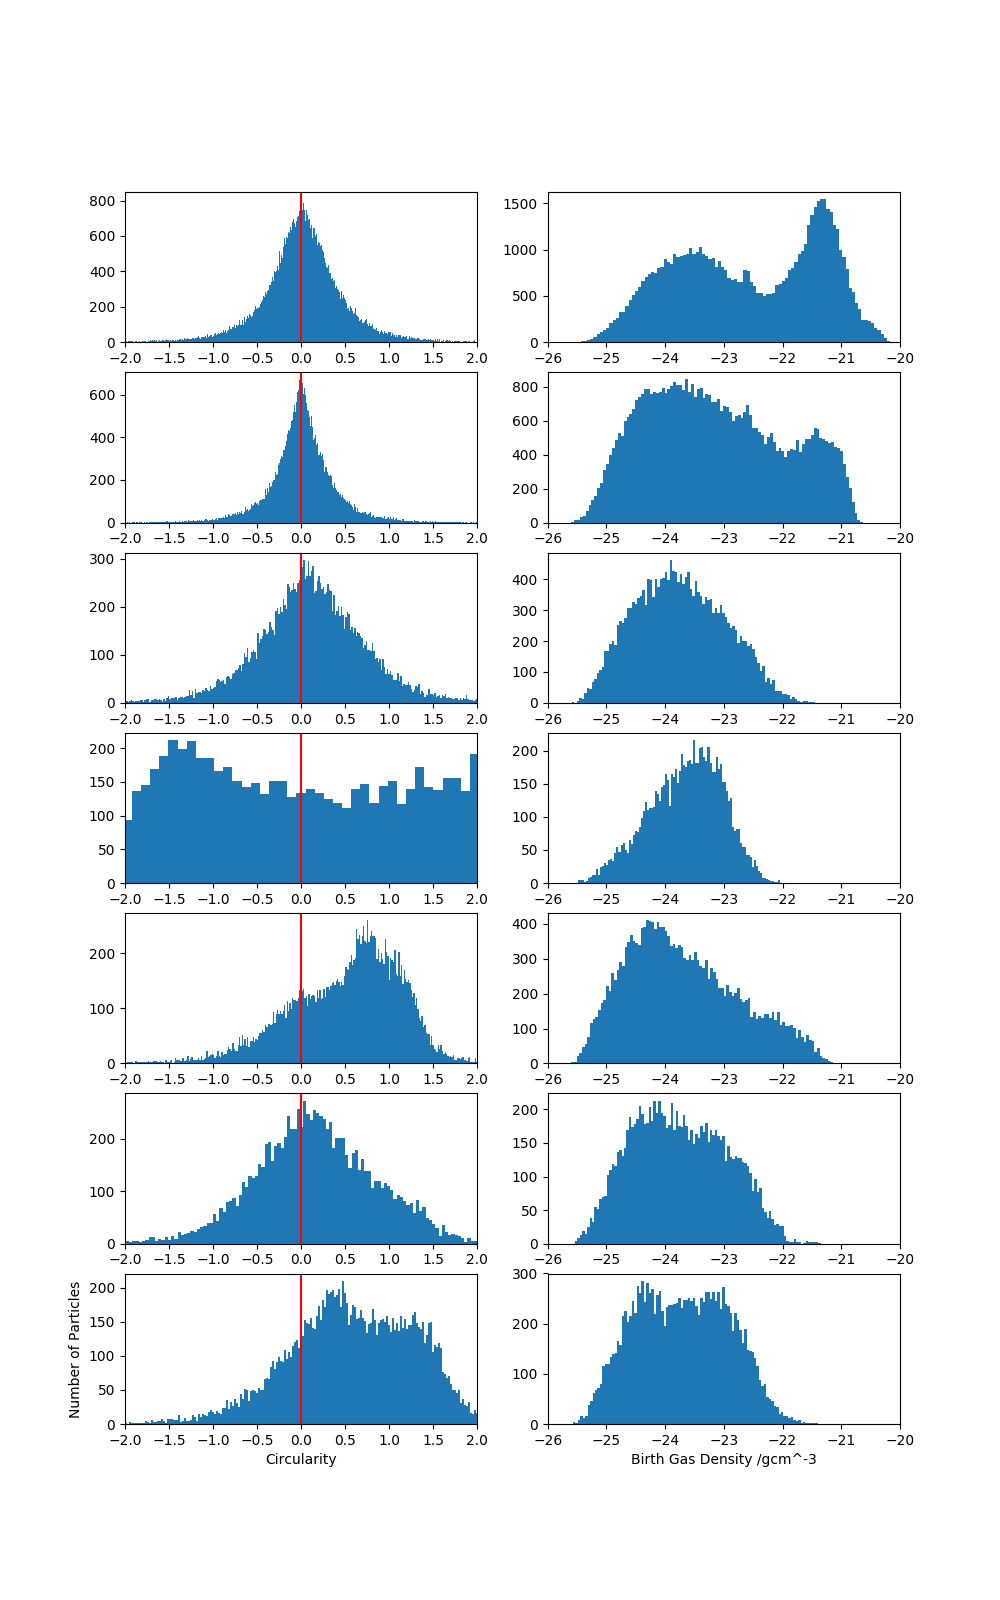
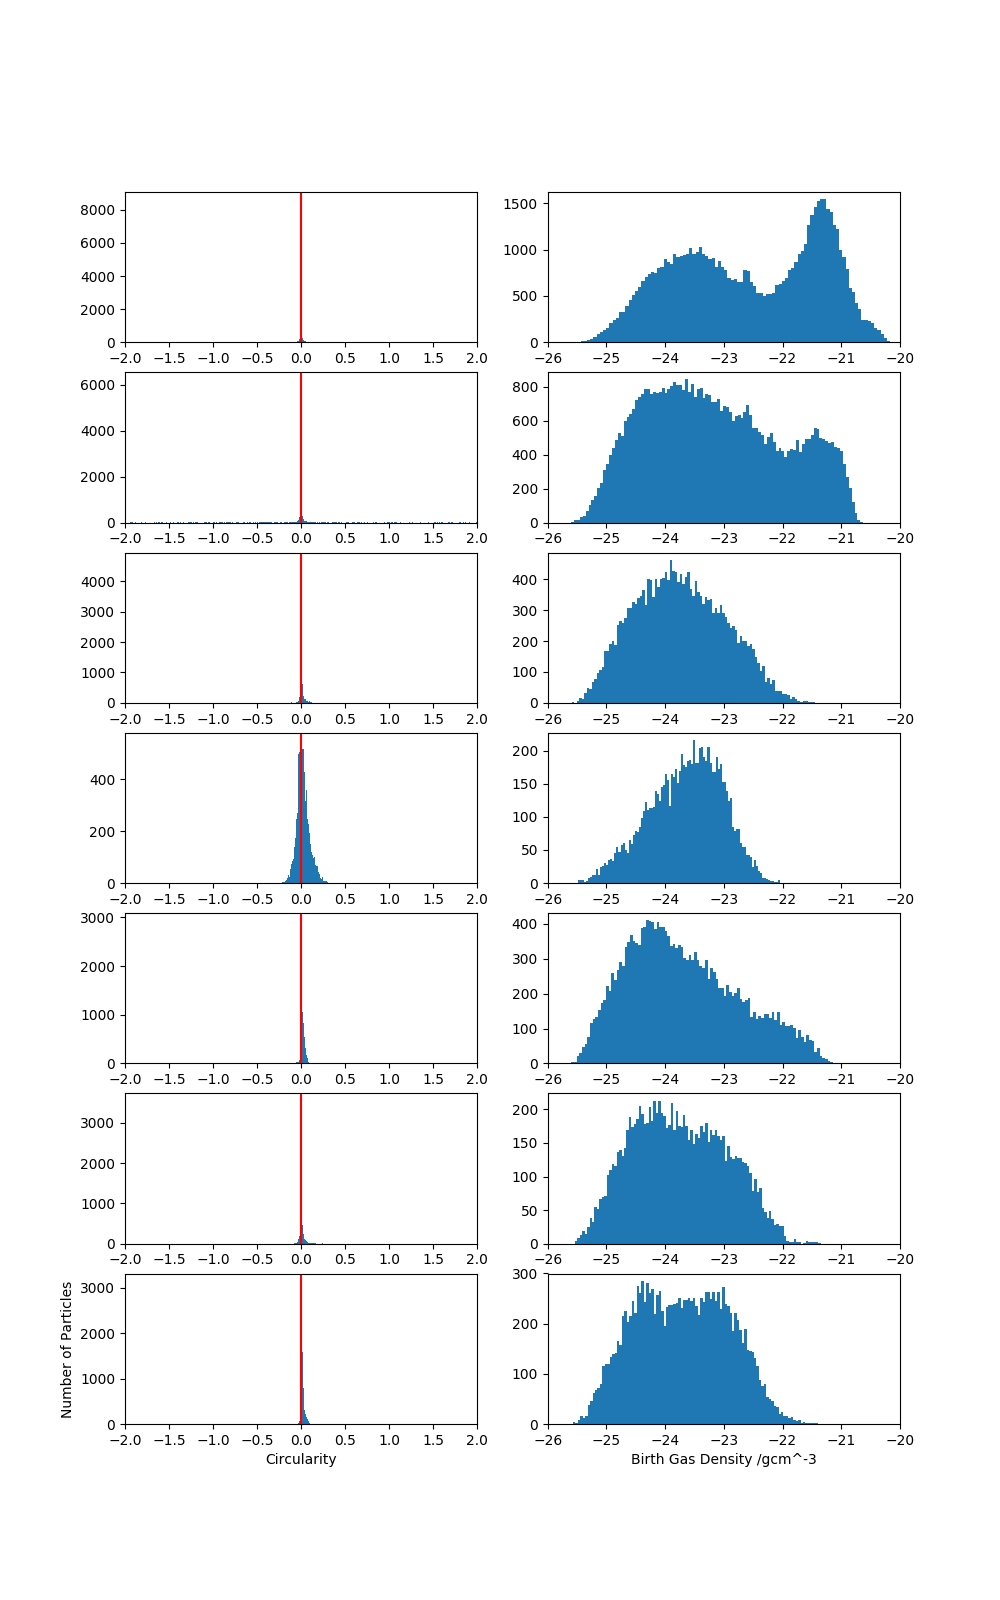
Partial debug of interpolation method

diff --git a/BulgeDiskSeparator4.py b/BulgeDiskSeparator4.py
@@ -5,7 +5,6 @@ import h5py
 import astropy.units as u
 import eagleSqlTools as sql
 import matplotlib.pyplot as plt
-from matplotlib import colors
 from astropy import constants as const
 
 
@@ -16,7 +15,7 @@ def read_galaxy_database(query, filename, username, password, data_request=0):
         con = sql.connect(username, password=password)
 
         for sim_name, sim_size in mySims:
-            print sim_name
+            #print sim_name
 
             myData = sql.execute_query(con, query)
 
@@ -197,11 +196,12 @@ def compute_EnclosedMass(gas, dm, stars, bh, GalaxyCentre):
     r_combined = r_combined[mask]
     m_combined = combined['mass'][mask]
     r_combined_vect = r_combined_vect[mask] #check for error
+    print 'r_c_v:', r_combined_vect.shape
 
     # summing
     EnclosedMass = np.cumsum(m_combined)
 
-    return EnclosedMass, r_combined, r_combined_vect
+    return EnclosedMass, r_combined, r_combined_vect, m_combined
 
 def compute_L_c(r, m, G, EnclosedMass, r_combined):
     '''for a given particle in a galaxy, computes its L if it were on a circular
@@ -211,13 +211,55 @@ def compute_L_c(r, m, G, EnclosedMass, r_combined):
 
     return L_c_1
 
-def compute_All_L_c(r, m, G, EnclosedMass, r_combined, N_particles):
+def sr_compute_All_L_c(r, m, G, EnclosedMass, r_combined, N_particles):
     '''runs compute_L_c for all star particles in a galaxy'''
     L_c = np.zeros(N_particles)
     v_c = np.zeros(N_particles)
     for j in xrange(N_particles):
         mod_r = np.linalg.norm(r[j])
         L_c[j] = compute_L_c(mod_r, m[j], G, EnclosedMass, r_combined)
+
+    return L_c
+
+def get_perp_vector(Galaxy_RotationAxis):
+    perp_vector = np.cross(Galaxy_RotationAxis, [0, 0, 1])
+    perp_vector = perp_vector / np.linalg.norm(perp_vector)  # Normalising
+    return perp_vector
+
+def initialise_interpolation(N_radii, N_All_Particles, Galaxy_RotationAxis, EnclosedMass, m_combined, r_combined_vect, r_combined, G, eps=0.0001):
+    perp_vector = get_perp_vector(Galaxy_RotationAxis)
+    Pot_temp = np.zeros(N_All_Particles)
+    InterpRadii = np.logspace(-4, 0, N_radii)
+    InterpPotential = np.zeros(N_radii)
+    InterpEnergyPUM = np.zeros(N_radii)
+    eps = 0.0001
+
+    for j in xrange(N_radii):
+        print 'radcount:', j
+        r_temp = InterpRadii[j] * perp_vector
+        for k in xrange(N_All_Particles):
+            # print 'j:',j,'kfrac:',k/N_All_Particles
+            dist = np.sqrt(np.linalg.norm(r_combined_vect[k] - r_temp) ** 2 + eps ** 2)
+            Pot_temp[k] = -(G * m_combined[k]) / (dist)
+            # print 'Pot_temp',Pot_temp[k],'k:',k
+        InterpPotential[j] = np.sum(Pot_temp)
+        # print InterpPotential[j]
+        InterpEnergyPUM[j] = (0.5 * G * EnclosedMass[np.searchsorted(r_combined, InterpRadii[j]) - 1] /
+                              InterpRadii[j]) + InterpPotential[j]
+        # print InterpEnergyPUM[j]
+
+    return InterpRadii, InterpPotential, InterpEnergyPUM
+
+def interp_compute_All_L_c(N_particles, r, m, v, InterpRadii, InterpPotential, InterpEnergyPUM, EnclosedMass, r_combined, G):
+    L_c = np.zeros(N_particles)
+    for j in xrange(N_particles):
+        mod_r = np.linalg.norm(r[j])
+        Pot_current = np.interp(mod_r, InterpRadii, InterpPotential)
+        E_current = (0.5 * m[j] * (np.linalg.norm(v[j]) ** 2)) + (m[j] * Pot_current)
+        r_new = np.interp(E_current, (InterpEnergyPUM * m[j]), InterpRadii)
+
+        #print 'r_new:', r_new, 'pot', Pot_current, 'E', E_current
+        L_c[j] = compute_L_c(r_new, m[j], G, EnclosedMass, r_combined)
 
     return L_c
 
@@ -251,7 +293,7 @@ def Circularity_Histogram(GNs, SGNs, Centres, OrbitFindingMethod=2, selection=0)
         Lperp = compute_Lperp(L, Galaxy_RotationAxis, N_particles)
 
         # computing M(<R) for all R
-        EnclosedMass, r_combined, r_combined_vect = compute_EnclosedMass(gas, dm, stars, bh, GalaxyCentres[i])
+        EnclosedMass, r_combined, r_combined_vect, m_combined = compute_EnclosedMass(gas, dm, stars, bh, GalaxyCentres[i])
         # plt.scatter(np.log10(r_combined), np.log10(m_combined))
 
         N_All_Particles = len(r_combined)
@@ -259,55 +301,23 @@ def Circularity_Histogram(GNs, SGNs, Centres, OrbitFindingMethod=2, selection=0)
         # Finding L of Circular orbit with the same energy
         # 0 - Brute Force
         # 1 - Assume Same Radius
-        # 2 - Random Sampling
-        # 3 - Interpolation
+        # 2 - Linear interpolation
+        # 3 - Log interpolation
+        # 4 - Hernquist profile
 
         myG = const.G.to(u.Mpc ** 3 * u.Msun ** -1 * u.s ** -2).value
 
         if OrbitFindingMethod == 1:
-            L_c = compute_All_L_c(r, m, myG, EnclosedMass, r_combined, N_particles)
+            L_c = sr_compute_All_L_c(r, m, myG, EnclosedMass, r_combined, N_particles)
 
-        # if OrbitFindingMethod == 2:
-        #     N_radii = 10
-        #     perp_vector = np.cross(Galaxy_RotationAxis, [0, 0, 1])  # Normalise!!!
-        #     Pot_temp = np.zeros(N_All_Particles)
-        #     InterpRadii = np.logspace(-4, 0, N_radii)
-        #     print InterpRadii
-        #     InterpPotential = np.zeros(N_radii)
-        #     InterpEnergyPUM = np.zeros(N_radii)
-        #     Log_InterpRadii = np.log10(InterpRadii)
-        #     print Log_InterpRadii
-        #     eps = 0.001
-        #     for j in xrange(N_radii):
-        #         print j
-        #         r_temp = InterpRadii[j] * perp_vector
-        #         for k in xrange(N_All_Particles):
-        #             # print 'j:',j,'kfrac:',k/N_All_Particles
-        #             dist = np.sqrt(np.linalg.norm(r_combined_vect[k] - r_temp) ** 2 + eps ** 2)
-        #             Pot_temp[k] = -(myG * m_combined[k]) / (dist)
-        #             # print 'Pot_temp',Pot_temp[k],'k:',k
-        #         InterpPotential[j] = np.sum(Pot_temp)
-        #         print InterpPotential[j]
-        #         InterpEnergyPUM[j] = (0.5 * myG * EnclosedMass[np.searchsorted(r_combined, InterpRadii[j]) - 1] /
-        #                               InterpRadii[j]) + InterpPotential[j]
-        #         print InterpEnergyPUM[j]
-        #
-        #     Log_InterpPotential = np.log10(InterpPotential)
-        #     Log_InterpEnergyPUM = np.log10(InterpEnergyPUM)
-        #     print InterpPotential
-        #     print Log_InterpPotential
-        #     for j in xrange(N_particles):
-        #         # print j/N_particles
-        #         mod_r = np.linalg.norm(r[j])
-        #         Pot_current = np.power(10, np.interp(np.log10(mod_r), Log_InterpRadii, Log_InterpPotential))
-        #         # print np.interp(np.log10(mod_r), Log_InterpRadii, Log_InterpPotential)
-        #         # print np.log10(mod_r), Log_InterpRadii, Log_InterpPotential
-        #         E_current = (0.5 * m[j] * (np.linalg.norm(v[j]) ** 2)) + (m[j] * Pot_current)
-        #         r_new = np.power(10, np.interp(np.log10(E_current), (Log_InterpEnergyPUM + np.log10(m[j])),
-        #                                        Log_InterpRadii))
-        #         # print 'r_new:',r_new, 'pot', Pot_current, 'E', E_current
-        #         v_c[j] = np.sqrt(myG * EnclosedMass[np.searchsorted(r_combined, r_new) - 1] / r_new)
-        #         L_c[j] = m[j] * r_new * v_c[j]
+        if OrbitFindingMethod == 2:
+
+            InterpRadii, InterpPotential, InterpEnergyPUM = initialise_interpolation(10, N_All_Particles, Galaxy_RotationAxis, EnclosedMass, m_combined, r_combined_vect, r_combined, myG, eps=0.0001)
+
+            print InterpPotential
+
+            L_c = interp_compute_All_L_c(N_particles, r, m, v, InterpRadii, InterpPotential, InterpEnergyPUM, EnclosedMass, r_combined, myG)
+
 
         # finding circularity
         Circularity = Lperp / L_c
@@ -318,7 +328,7 @@ def Circularity_Histogram(GNs, SGNs, Centres, OrbitFindingMethod=2, selection=0)
         #print 'v', v_c
         #print Log_InterpEnergyPUM
         # print int(N_particles/20)
-        plt.hist(Circularity, bins=int(N_particles / 20), normed=0)  # , range=[-2,2])
+        plt.hist(Circularity, bins=int(N_particles / 20), normed=0, range=[-2,2])
         plt.axvline(x=0, color='red')
         plt.xlim(-2, 2)
         CircularitySorted = np.sort(Circularity)
@@ -367,4 +377,4 @@ if __name__ == '__main__':
 
     GroupNum, SubGroupNum, GalaxyCentres = extract_galaxydata(myData)
 
-    Circularity_Histogram(GroupNum, SubGroupNum, GalaxyCentres, 1)
+    Circularity_Histogram(GroupNum, SubGroupNum, GalaxyCentres, 2)
